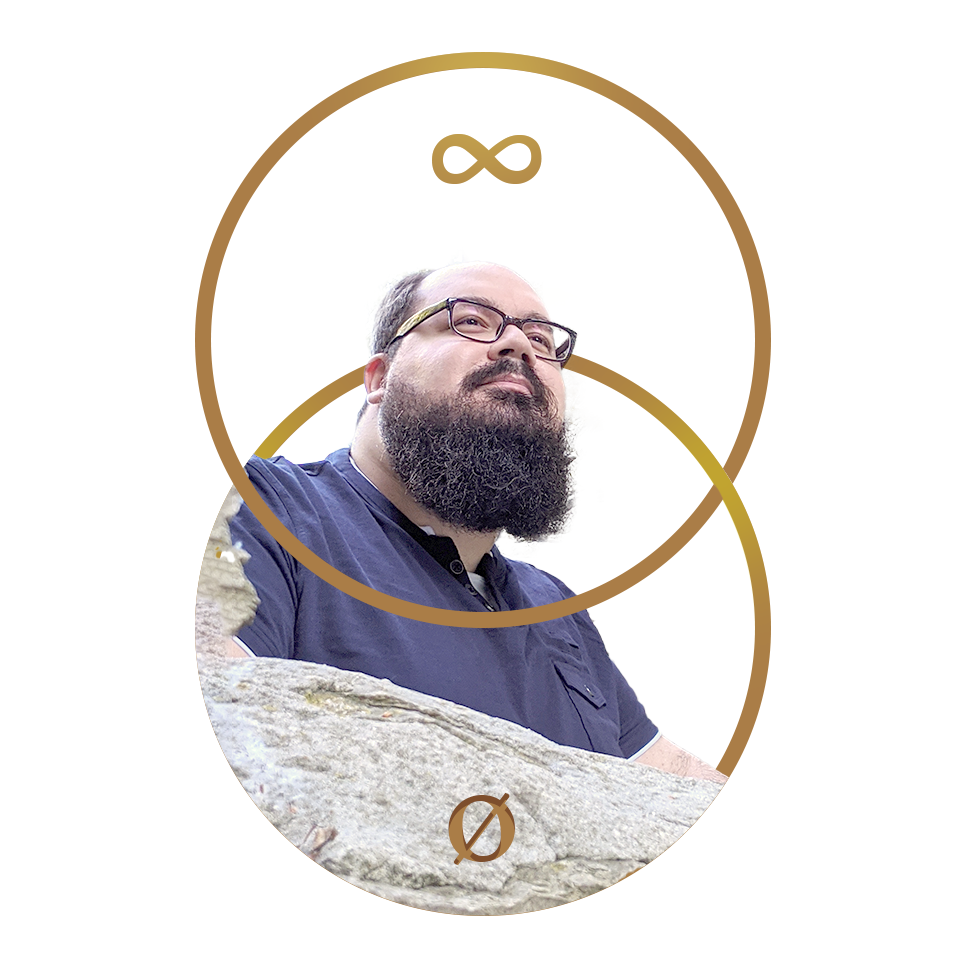
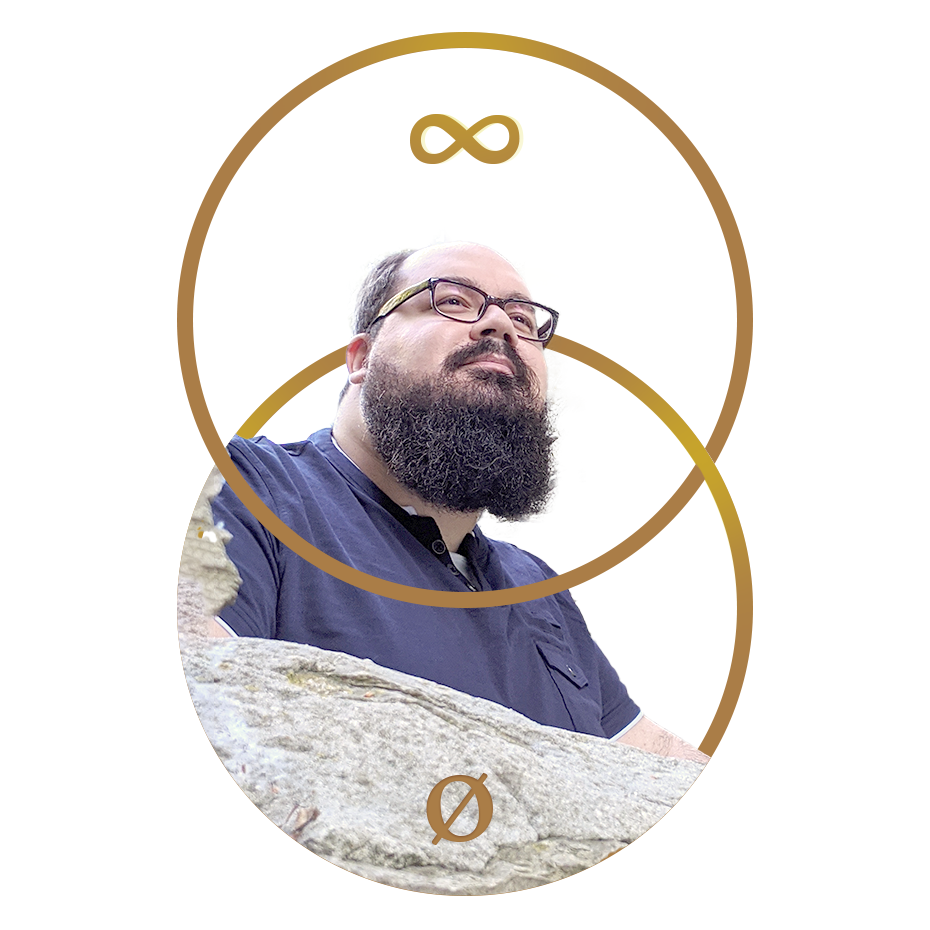
Further adjustments to home heading

diff --git a/src/_includes/styles/main.min.css b/src/_includes/styles/main.min.css
@@ -1,2 +1,2 @@
 :root{--font-serif: "JuniusX Var", Georgia, Athelas, Times, "Times New Roman", serif;--font-sans: "Inter Var", -apple-system, BlinkMacSystemFont, "Helvetica Neue", Helvetica, Arial,
-    sans-serif;--color-black: #13111e;--color-gray-dark: #2a2834;--color-gray: #888;--color-gray-light: #b9b3a7;--color-gray-verylight: #f2f2f2;--color-white: #fff;--color-purple: #444153;--color-red: #a33b20;--color-red-dark: #7b2814;--color-gold: #aa7d47;--color-gold-light: #f0ece2;--color-lemon: hsl(57, 77%, 45%);--color-lemon-light: hsl(57, 77%, 90%);--color-ginger: hsl(33, 76%, 45%);--color-ginger-light: hsl(33, 76%, 90%);--color-rhubarb: hsl(4, 75%, 45%);--color-rhubarb-light: hsl(4, 75%, 90%);--color-strawberry: hsl(344, 75%, 45%);--color-strawberry-light: hsl(344, 75%, 90%);--color-raspberry: hsl(303, 47%, 45%);--color-raspberry-light: hsl(303, 47%, 90%);--color-lime: hsl(152, 53%, 45%);--color-lime-light: hsl(152, 53%, 90%);--color-sky: hsl(205, 53%, 45%);--color-sky-light: hsl(205, 53%, 90%);--color-bg: var(--color-white);--color-fg: var(--color-gray-dark);--color-fg-display: var(--color-black);--color-link: var(--color-gray-dark);--color-link-hover: var(--color-black);--color-border: rgba(136, 136, 136, .5);--color-accent: var(--color-gold);--color-accent-light: var(--color-gold-light);--color-complementary: var(--color-purple)}.site-header,.site-footer,.entry-body,.postnav,.subscribe,.heading,.gridlist{padding-left:calc( (1.71 * 1rem) + .43844 * calc( (100vw - (20 * 1rem)) / 70));padding-right:calc( (1.71 * 1rem) + .43844 * calc( (100vw - (20 * 1rem)) / 70))}.site-header:not(:last-child)>div,.site-footer:not(:last-child)>div,.entry-body:not(:last-child)>div,.postnav:not(:last-child)>div,.subscribe:not(:last-child)>div,.heading:not(:last-child)>div,.gridlist:not(:last-child)>div{border-bottom:1px solid var(--color-border)}@media screen and (min-width: 65rem){.site-header,.site-footer,.entry-body,.postnav,.subscribe,.heading,.gridlist{padding-left:calc( (2.4624 * 1rem) + .89453 * calc( (100vw - (20 * 1rem)) / 70));padding-right:calc( (2.4624 * 1rem) + .89453 * calc( (100vw - (20 * 1rem)) / 70))}}.site-header__inner,.site-footer__inner,.entry-content,.postnav__inner,.subscribe__inner,.heading__content,.gridlist__inner{margin:0 auto;width:100%;max-width:1440px;padding-top:calc( (1.71 * 1rem) + .43844 * calc( (100vw - (20 * 1rem)) / 70));padding-bottom:calc( (1.71 * 1rem) + .43844 * calc( (100vw - (20 * 1rem)) / 70))}.site-header__inner,.site-footer__inner,.postnav__inner,.subscribe__inner,.gridlist__inner,.services__list{display:grid;grid-template-columns:1fr;grid-gap:calc( (2.4624 * 1rem) + .89453 * calc( (100vw - (20 * 1rem)) / 70))}@media screen and (min-width: 65rem){.site-header__inner,.site-footer__inner,.postnav__inner,.subscribe__inner,.gridlist__inner,.services__list{grid-template-columns:1fr 2fr}}h2,h3,.menu__item a,.langswitch__item a,.postlist__date,.postnav__title,.postnav__heading,a.tag,.contact__item,.subscribe__title,.subscribe__link,.heading__datetime,.gridlist__title,.gridlist__link{font-size:calc( (.82465 * 1rem) + .09201 * calc( (100vw - (20 * 1rem)) / 70));line-height:calc( (1.71 * 1rem) + .43844 * calc( (100vw - (20 * 1rem)) / 70));text-transform:uppercase;letter-spacing:0.1em}.contact__item a,.subscribe__link,.gridlist__link{text-decoration:none;line-height:2;border-bottom:0.15em solid var(--color-link)}.contact__item a:focus,.subscribe__link:focus,.gridlist__link:focus,.contact__item a:hover,.subscribe__link:hover,.gridlist__link:hover,.contact__item a:active,.subscribe__link:active,.gridlist__link:active{border-bottom-color:var(--color-link-hover)}.entry-content a,.heading a{font-weight:700;text-decoration:none;background-image:linear-gradient(90deg, var(--color-bg), var(--color-bg)),linear-gradient(90deg, var(--color-accent), var(--color-accent));background-repeat:no-repeat;background-size:50px 3px, 100% 3px;background-position:-50px 100%, 0 100%}.entry-content a:focus,.heading a:focus,.entry-content a:hover,.heading a:hover,.entry-content a:active,.heading a:active{background-image:linear-gradient(90deg, var(--color-bg), var(--color-bg)),linear-gradient(90deg, var(--color-complementary), var(--color-complementary));background-position:calc(100% + 50px) 100%,0 100%}.site-header__title{border:0;clip:rect(0 0 0 0);height:1px;margin:-1px;overflow:hidden;padding:0;position:absolute;width:1px}@font-face{font-family:'Inter Var';font-style:oblique 0deg 10deg;font-weight:100 900;font-display:swap;src:url("/assets/fonts/Inter.latin.var.woff2") format("woff2");unicode-range:U+0000-007F,U+00A0-0100,U+0131,U+0152-0154,U+02BB-02BD,U+02C6,U+02DA,U+02DC,U+2000-200C,U+2010-2028,U+202F-2060,U+2074,U+20AC,U+2122,U+2191,U+2193,U+2212,U+FEFF}html,body{padding:0;margin:0;overflow-x:hidden}html{--color-bg: var(--color-white);font-family:var(--font-sans);font-size:1rem;background-color:var(--color-bg);box-sizing:border-box}body{position:relative;font-size:calc( (1.1875 * 1rem) + .1875 * calc( (100vw - (20 * 1rem)) / 70));line-height:calc( (1.71 * 1rem) + .43844 * calc( (100vw - (20 * 1rem)) / 70));border-top:0.5rem solid var(--color-accent)}@media screen and (min-width: calc(1440 / 16 * 1rem)){body{font-size:22px}}.site-header,.site-footer,.site-main,.site-main>div{color:var(--color-fg);background-color:var(--color-bg)}*,*:before,*:after{box-sizing:inherit}@media screen and (prefers-reduced-motion: reduce), (update: slow){*,*:before,*:after{animation-duration:0.001ms !important;animation-delay:0s !important;animation-iteration-count:1 !important;transition-duration:0.001ms !important}}h1,h2,h3,h4,h5,h6{color:var(--color-fg-display)}p,ol,ul,figure{margin-top:0;margin-bottom:calc( (1.71 * 1rem) + .43844 * calc( (100vw - (20 * 1rem)) / 70))}p:last-child,ol:last-child,ul:last-child,figure:last-child{margin-bottom:0}figure{margin-left:0;margin-right:0}img{width:100%;height:auto;vertical-align:middle}a{color:var(--color-link);transition:color 0.25s ease-out, border-color 0.25s ease-out, box-shadow 0.25s ease-out, background-position 0.5s ease-in-out, background-image 0.25s ease-in-out}a:focus,a:hover,a:active{color:var(--color-link-hover)}table{margin:calc( (1.1875 * 1rem) + .1875 * calc( (100vw - (20 * 1rem)) / 70)) 0}table td,table th{padding-right:calc( (1.1875 * 1rem) + .1875 * calc( (100vw - (20 * 1rem)) / 70))}@keyframes rotating{0%{transform:rotate(0deg)}to{transform:rotate(360deg)}}@keyframes drawingin{to{stroke-dashoffset:0}}@keyframes drawingover{from{stroke-dashoffset:1715}25%,50%{stroke-dashoffset:0}to{stroke-dashoffset:-1715}}@keyframes stretchingin{from{stroke-dashoffset:-110}to{stroke-dashoffset:0}}@keyframes stretchingover{from{stroke-dashoffset:0}25%{stroke-dashoffset:120}50%{stroke-dashoffset:-110}75%{stroke-dashoffset:120}to{stroke-dashoffset:0}}@keyframes headingPicture{0%{opacity:0}50%{opacity:0}51%{opacity:1}100%{opacity:1;transform:translate(-50%, -50%) scale(1)}}@keyframes headingOverlay{0%{transform:scaleX(0);transform-origin:0% 50%}50%{transform:scaleX(1);transform-origin:0% 50%}51%{transform:scaleX(1);transform-origin:100% 50%}100%{transform:scaleX(0);transform-origin:100% 50%}}.overlay{margin-top:calc(calc( (2.95488 * 1rem) + 1.24129 * calc( (100vw - (20 * 1rem)) / 70)) * -1)}.borderless{border:none}.link-home{font-size:calc( (1.1875 * 1rem) + .1875 * calc( (100vw - (20 * 1rem)) / 70));line-height:calc( (1.71 * 1rem) + .43844 * calc( (100vw - (20 * 1rem)) / 70));margin-top:0;margin-bottom:0}.link-home a{display:block}.link-home a:not(:hover){text-decoration:none}.direct-link{margin-left:.25rem}.direct-link:link{color:var(--color-accent)}.direct-link:hover,.direct-link:active{color:var(--color-red)}.site-header{background-color:var(--color-gray-verylight)}.site-header__inner{--color-border: transparent}@media screen and (min-width: 65rem){.site-header__inner{padding-top:calc( (3.54586 * 1rem) + 1.69935 * calc( (100vw - (20 * 1rem)) / 70));grid-template-columns:2fr 1fr 2fr}}.site-header__logo{position:relative;justify-self:center;margin-bottom:calc( (3.54586 * 1rem) + 1.69935 * calc( (100vw - (20 * 1rem)) / 70))}@media screen and (min-width: 65rem){.site-header__logo{grid-column:2/3}}.site-header__navigation{--color-link-hover: var(--color-accent);display:flex;justify-content:space-between}@media screen and (min-width: 65rem){.site-header__navigation{display:contents}.site-header__navigation .menu{grid-row:1;grid-column:1/2;display:flex;column-gap:calc( (2.052 * 1rem) + .63355 * calc( (100vw - (20 * 1rem)) / 70))}.site-header__navigation .langswitch{grid-row:1;grid-column:3/5;justify-self:right}}.site-footer{--color-bg: var(--color-black);--color-fg: var(--color-gray-light);--color-link: var(--color-accent-light);--color-link-hover: var(--color-accent);--color-border: var(--color-gray-dark)}.site-footer__inner{border-bottom:none !important}.site-footer__links{display:flex;column-gap:calc( (1.425 * 1rem) + .29375 * calc( (100vw - (20 * 1rem)) / 70))}.site-footer .logo,.site-footer .menu,.site-footer .contact{flex:1}.site-footer .menu__item,.site-footer .contact__item{display:block}.site-footer .menu__item a,.site-footer .contact__item a{display:block}.site-footer .contact__item{font-weight:normal}.site-footer .contact__item a{border-bottom:0;line-height:2.25}.site-footer .contact__item a:after{content:"" !important}.site-footer .copyright{font-weight:700;font-size:calc( (.98958 * 1rem) + .11042 * calc( (100vw - (20 * 1rem)) / 70));text-transform:none;padding-top:calc( (1.71 * 1rem) + .43844 * calc( (100vw - (20 * 1rem)) / 70));border-top:1px solid var(--color-border)}@media screen and (min-width: 65rem){.site-footer .logo{margin-top:0.6rem}.site-footer .copyright{grid-column:2/3}}.menu__list,.langswitch__list{padding:0;margin:0;list-style:none}.menu__item a,.langswitch__item a{line-height:2.25;display:block;text-decoration:none}.menu__item[aria-current] a,.menu__item--active a,.langswitch__item[aria-current] a,.langswitch__item--active a{font-weight:700;color:var(--color-link-hover)}.entry-content{--color-link-hover: var(--color-accent);position:relative;padding-top:calc( (2.95488 * 1rem) + 1.24129 * calc( (100vw - (20 * 1rem)) / 70));padding-bottom:calc( (2.95488 * 1rem) + 1.24129 * calc( (100vw - (20 * 1rem)) / 70))}.entry-content p{max-width:37.5em}.entry-content p:first-of-type:first-letter{float:left;margin-right:0.25rem;font-size:520%;margin-top:0.7rem;line-height:.68em;-webkit-initial-letter:3;initial-letter:3}.entry-content p:last-of-type:after{display:inline-block;content:"";background-color:var(--color-accent);width:0.5em;height:0.5em;margin-left:0.25rem}.entry-content a{--color-link: var(--color-fg);--color-link-hover: var(--color-fg)}.entry-content a.external-link:after{display:inline-block;content:"\2197";font-size:65%;line-height:1}@media screen and (min-width: 65rem){.entry-content>*:not(div){margin-left:calc(33.3% + calc( (1.71 * 1rem) + .43844 * calc( (100vw - (20 * 1rem)) / 70)))}.entry-content pre{margin-left:auto}.entry-content figure.onethird{margin-left:0;width:calc(33.3% - calc( (1.425 * 1rem) + .29375 * calc( (100vw - (20 * 1rem)) / 70)));float:left}}.postlist{list-style:none;padding:0;margin:0}.postlist:not(:last-child){border-bottom:1px solid var(--color-border)}.postlist__item{padding-bottom:calc( (1.71 * 1rem) + .43844 * calc( (100vw - (20 * 1rem)) / 70))}.postlist__item:not(:last-of-type){margin-bottom:calc( (1.71 * 1rem) + .43844 * calc( (100vw - (20 * 1rem)) / 70));border-bottom:1px solid var(--color-border)}.postlist__date{font-size:calc( (.82465 * 1rem) + .09201 * calc( (100vw - (20 * 1rem)) / 70));font-weight:700;color:var(--color-accent);margin-right:.5rem}.postlist__link{display:block;font-size:calc( (1.425 * 1rem) + .29375 * calc( (100vw - (20 * 1rem)) / 70));font-weight:700;margin-bottom:.5rem}.postlist__description{font-size:calc( (1.1875 * 1rem) + .1875 * calc( (100vw - (20 * 1rem)) / 70));margin-bottom:.5rem}.postnav__title{margin-top:0;margin-bottom:0}@media screen and (min-width: 65rem){.postnav__items{display:grid;grid-template-columns:1fr 1fr;grid-column-gap:calc( (2.4624 * 1rem) + .89453 * calc( (100vw - (20 * 1rem)) / 70))}}.postnav__item{display:block}@media screen and (max-width: 65rem){.postnav__item:not(:last-child){margin-bottom:calc( (1.71 * 1rem) + .43844 * calc( (100vw - (20 * 1rem)) / 70))}}.postnav__link:not(:hover){text-decoration:none}.postnav__heading,.postnav__description{margin:0}.postnav__heading{font-weight:700}a.tag{--color-link: var(--color-accent);--color-link-hover: var(--color-white);font-size:.75rem;font-weight:600;line-height:1.35;display:inline-block;position:relative;vertical-align:middle;padding:.0 .4rem 0 1.1rem;margin-right:0.5rem;border:0.125rem solid var(--color-link);border-radius:8px;text-decoration:none}a.tag:before{content:'#';position:absolute;left:.35rem}a.tag:focus,a.tag:hover,a.tag:active{background-color:var(--color-link)}.taglist{grid-column:2/3}.contact{--color-link-hover: var(--color-accent)}.contact__list{padding:0;margin:0;list-style:none}.contact__item{display:inline-block;position:relative;font-weight:700}.contact__item:not(:last-child){margin-right:calc( (1.71 * 1rem) + .43844 * calc( (100vw - (20 * 1rem)) / 70))}.contact__item a:after{content:"\20\2197";position:relative;right:-.25rem}code,pre{font-family:"Cascadia Mono", Consolas, Menlo, Monaco, "Andale Mono WT", "Andale Mono", "Lucida Console", "Lucida Sans Typewriter", "DejaVu Sans Mono", "Bitstream Vera Sans Mono", "Liberation Mono", "Nimbus Mono L", "Courier New", Courier, monospace;font-size:calc( (.98958 * 1rem) + .11042 * calc( (100vw - (20 * 1rem)) / 70));line-height:calc( (1.425 * 1rem) + .29375 * calc( (100vw - (20 * 1rem)) / 70));direction:ltr;text-align:left;white-space:pre;word-spacing:normal;word-break:normal;-moz-tab-size:2;-o-tab-size:2;tab-size:2;-webkit-hyphens:none;-moz-hyphens:none;-ms-hyphens:none;hyphens:none;background:var(--color-black);color:var(--color-white);border-radius:0.3em}pre{padding:calc( (1.1875 * 1rem) + .1875 * calc( (100vw - (20 * 1rem)) / 70));margin:0 0 calc( (1.1875 * 1rem) + .1875 * calc( (100vw - (20 * 1rem)) / 70));overflow:auto}pre[class*="language-"]::before{position:absolute;margin-top:calc(calc( (1.1875 * 1rem) + .1875 * calc( (100vw - (20 * 1rem)) / 70)) * -1);right:0;padding:.25rem .5rem;font-size:calc( (.82465 * 1rem) + .09201 * calc( (100vw - (20 * 1rem)) / 70));font-family:var(--font-sans);color:var(--color-white);background-color:var(--color-purple);border-radius:0 .3em 0 0.3em}pre.language-svg::before{content:'SVG'}pre.language-css::before{content:'CSS'}pre.language-js::before{content:'JS'}:not(pre)>code{padding:0em .25em 0.1em;color:var(--color-white);background-color:var(--color-accent)}.token.comment,.token.prolog,.token.doctype,.token.cdata{color:var(--color-gray);font-style:italic}.token.punctuation{color:#f8f8f2}.token.namespace{opacity:0.7}.token.operator,.token.boolean,.token.number{color:#fd971f}.token.property{color:#f4bf75}.token.tag{color:#66d9ef}.token.string{color:#a1efe4}.token.selector{color:#ad94e3}.token.attr-name{color:#fd971f}.token.entity,.token.url,.language-css .token.string,.style .token.string{color:#a1efe4}.token.attr-value,.token.keyword,.token.control,.token.directive,.token.unit{color:#a6e22e}.token.statement,.token.regex,.token.atrule{color:#a1efe4}.token.placeholder,.token.variable{color:#66d9ef}.token.deleted{text-decoration:line-through}.token.inserted{border-bottom:1px dotted #f9f8f5;text-decoration:none}.token.italic{font-style:italic}.token.important,.token.bold{font-weight:bold}.token.important{color:#f92672}.token.entity{cursor:help}pre>code.highlight{outline:0.4em solid #f92672;outline-offset:0.4em}.highlight-line{display:block;padding:0.125em 1em;text-decoration:none;color:inherit}.highlight-line:empty:before{content:" "}.highlight-line+br{display:none}.highlight-line-isdir{color:#b0b0b0;background-color:#222}.highlight-line-active{background-color:#444;background-color:rgba(69,69,69,0.8)}.highlight-line-add{background-color:#45844b}.highlight-line-remove{background-color:#902f2f}.subscribe__title{margin-top:0;margin-bottom:0}.subscribe__link{font-weight:700;position:relative}.subscribe__link:after{content:"\20\2197";position:relative;right:-0.25rem}.logo a{display:inline-block;vertical-align:middle}.logo a .logo__monogram{display:block;width:3rem;height:auto}.logo a .logo__monogram .logo__trace path,.logo a .logo__monogram .logo__hover path{stroke-dasharray:1715;stroke-dashoffset:1715;transform:translateZ(0)}.logo a .logo__monogram .logo__trace path{stroke:var(--color-link);animation:drawingin 2.5s cubic-bezier(0.83, 0, 0.17, 1) forwards}.logo a .logo__monogram .logo__trace path+path{animation-delay:2s}.logo a .logo__monogram .logo__hover path{stroke:var(--color-accent)}.logo a .logo__rays{position:absolute;width:9rem;height:9rem;top:-3.35rem;left:-3rem;pointer-events:none;transform-origin:center;animation:stretchingin 4.5s cubic-bezier(0.83, 0, 0.17, 1) forwards}.logo a .logo__rays path{stroke:var(--color-accent);stroke-dasharray:110;transform:translateZ(0)}.logo a:focus .logo__trace,.logo a:hover .logo__trace,.logo a:active .logo__trace{opacity:0}.logo a:focus .logo__hover path,.logo a:hover .logo__hover path,.logo a:active .logo__hover path{animation:drawingover 5s cubic-bezier(0.83, 0, 0.17, 1) forwards infinite}.logo a:focus .logo__hover path+path,.logo a:hover .logo__hover path+path,.logo a:active .logo__hover path+path{animation-delay:.75s;animation-timing-function:linear}.heading{background-color:var(--color-gray-verylight) !important}.heading__content{position:relative;border-bottom:transparent !important}.heading--post .heading__content{grid-row-gap:1rem}.heading__title,.heading__subtitle{position:relative;margin-top:0;margin-bottom:0}.heading__title{font-weight:300;font-size:calc( (3.54586 * 1rem) + 1.69935 * calc( (100vw - (20 * 1rem)) / 70));line-height:calc( (3.54586 * 1rem) + 1.69935 * calc( (100vw - (20 * 1rem)) / 70));letter-spacing:-0.25rem;color:var(--color-accent)}.heading__subtitle{max-width:37.5em;font-size:calc( (1.71 * 1rem) + .43844 * calc( (100vw - (20 * 1rem)) / 70));line-height:calc( (2.052 * 1rem) + .63355 * calc( (100vw - (20 * 1rem)) / 70));letter-spacing:-0.03rem}.heading__img{position:relative;padding-bottom:56.2%;overflow:hidden}.heading__img img{max-width:100%;height:auto;position:absolute;top:50%;left:50%;transform:translate(-50%, -50%)}@media screen and (min-width: 65rem){.heading{display:grid;min-height:60vh;align-content:center}.heading--post .heading__content{grid-row-gap:calc( (1.425 * 1rem) + .29375 * calc( (100vw - (20 * 1rem)) / 70))}.heading__content{padding-bottom:calc( (3.54586 * 1rem) + 1.69935 * calc( (100vw - (20 * 1rem)) / 70))}.heading__title--page{grid-column:1/3;max-width:75%;margin-top:calc(calc( (3.54586 * 1rem) + 1.69935 * calc( (100vw - (20 * 1rem)) / 70)) * -1);z-index:30}}.gridlist{--color-link-hover: var(--color-accent)}.gridlist__title{margin-top:0;margin-bottom:0}.gridlist__link{position:relative;font-weight:700}.gridlist__link:focus,.gridlist__link:hover,.gridlist__link:active{color:var(--color-link-hover)}.gridlist__link:after{content:"\20\2192";position:relative;right:-0.25rem}@media screen and (min-width: 65rem){.gridlist .postlist{grid-column:2/3}.gridlist__footer{grid-column:2/3}}.feed .gridlist__inner{padding-top:calc(calc( (1.71 * 1rem) + .43844 * calc( (100vw - (20 * 1rem)) / 70)) * 2)}.services__list h2{margin-top:0;margin-bottom:0}.services__list:first-of-type{padding-top:calc( (1.71 * 1rem) + .43844 * calc( (100vw - (20 * 1rem)) / 70));border-top:1px solid var(--color-border)}.services__list:not(:last-child){margin-bottom:calc( (1.71 * 1rem) + .43844 * calc( (100vw - (20 * 1rem)) / 70));padding-bottom:calc( (1.71 * 1rem) + .43844 * calc( (100vw - (20 * 1rem)) / 70));border-bottom:1px solid var(--color-border)}.services__list ul{list-style:none;padding-left:0;columns:2}
+    sans-serif;--color-black: #13111e;--color-gray-dark: #2a2834;--color-gray: #888;--color-gray-light: #b9b3a7;--color-gray-verylight: #f2f2f2;--color-white: #fff;--color-purple: #444153;--color-red: #a33b20;--color-red-dark: #7b2814;--color-gold: #aa7d47;--color-gold-light: #f0ece2;--color-lemon: hsl(57, 77%, 45%);--color-lemon-light: hsl(57, 77%, 90%);--color-ginger: hsl(33, 76%, 45%);--color-ginger-light: hsl(33, 76%, 90%);--color-rhubarb: hsl(4, 75%, 45%);--color-rhubarb-light: hsl(4, 75%, 90%);--color-strawberry: hsl(344, 75%, 45%);--color-strawberry-light: hsl(344, 75%, 90%);--color-raspberry: hsl(303, 47%, 45%);--color-raspberry-light: hsl(303, 47%, 90%);--color-lime: hsl(152, 53%, 45%);--color-lime-light: hsl(152, 53%, 90%);--color-sky: hsl(205, 53%, 45%);--color-sky-light: hsl(205, 53%, 90%);--color-bg: var(--color-white);--color-fg: var(--color-gray-dark);--color-fg-display: var(--color-black);--color-link: var(--color-gray-dark);--color-link-hover: var(--color-black);--color-border: rgba(136, 136, 136, .5);--color-accent: var(--color-gold);--color-accent-light: var(--color-gold-light);--color-complementary: var(--color-purple)}.site-header,.site-footer,.entry-body,.postnav,.subscribe,.heading,.gridlist{padding-left:calc( (1.71 * 1rem) + .43844 * calc( (100vw - (20 * 1rem)) / 70));padding-right:calc( (1.71 * 1rem) + .43844 * calc( (100vw - (20 * 1rem)) / 70))}.site-header:not(:last-child)>div,.site-footer:not(:last-child)>div,.entry-body:not(:last-child)>div,.postnav:not(:last-child)>div,.subscribe:not(:last-child)>div,.heading:not(:last-child)>div,.gridlist:not(:last-child)>div{border-bottom:1px solid var(--color-border)}@media screen and (min-width: 65rem){.site-header,.site-footer,.entry-body,.postnav,.subscribe,.heading,.gridlist{padding-left:calc( (2.4624 * 1rem) + .89453 * calc( (100vw - (20 * 1rem)) / 70));padding-right:calc( (2.4624 * 1rem) + .89453 * calc( (100vw - (20 * 1rem)) / 70))}}.site-header__inner,.site-footer__inner,.entry-content,.postnav__inner,.subscribe__inner,.heading__content,.gridlist__inner{margin:0 auto;width:100%;max-width:1440px;padding-top:calc( (1.71 * 1rem) + .43844 * calc( (100vw - (20 * 1rem)) / 70));padding-bottom:calc( (1.71 * 1rem) + .43844 * calc( (100vw - (20 * 1rem)) / 70))}.site-header__inner,.site-footer__inner,.postnav__inner,.subscribe__inner,.gridlist__inner,.services__list{display:grid;grid-template-columns:1fr;grid-gap:calc( (2.4624 * 1rem) + .89453 * calc( (100vw - (20 * 1rem)) / 70))}@media screen and (min-width: 65rem){.site-header__inner,.site-footer__inner,.postnav__inner,.subscribe__inner,.gridlist__inner,.services__list{grid-template-columns:1fr 2fr}}h2,h3,.menu__item a,.langswitch__item a,.postlist__date,.postnav__title,.postnav__heading,a.tag,.contact__item,.subscribe__title,.subscribe__link,.heading__datetime,.gridlist__title,.gridlist__link{font-size:calc( (.82465 * 1rem) + .09201 * calc( (100vw - (20 * 1rem)) / 70));line-height:calc( (1.71 * 1rem) + .43844 * calc( (100vw - (20 * 1rem)) / 70));text-transform:uppercase;letter-spacing:0.1em}.contact__item a,.subscribe__link,.gridlist__link{text-decoration:none;line-height:2;border-bottom:0.15em solid var(--color-link)}.contact__item a:focus,.subscribe__link:focus,.gridlist__link:focus,.contact__item a:hover,.subscribe__link:hover,.gridlist__link:hover,.contact__item a:active,.subscribe__link:active,.gridlist__link:active{border-bottom-color:var(--color-link-hover)}.entry-content a,.heading a{font-weight:700;text-decoration:none;background-image:linear-gradient(90deg, var(--color-bg), var(--color-bg)),linear-gradient(90deg, var(--color-accent), var(--color-accent));background-repeat:no-repeat;background-size:50px 3px, 100% 3px;background-position:-50px 100%, 0 100%}.entry-content a:focus,.heading a:focus,.entry-content a:hover,.heading a:hover,.entry-content a:active,.heading a:active{background-image:linear-gradient(90deg, var(--color-bg), var(--color-bg)),linear-gradient(90deg, var(--color-complementary), var(--color-complementary));background-position:calc(100% + 50px) 100%,0 100%}.site-header__title{border:0;clip:rect(0 0 0 0);height:1px;margin:-1px;overflow:hidden;padding:0;position:absolute;width:1px}@font-face{font-family:'Inter Var';font-style:oblique 0deg 10deg;font-weight:100 900;font-display:swap;src:url("/assets/fonts/Inter.latin.var.woff2") format("woff2");unicode-range:U+0000-007F,U+00A0-0100,U+0131,U+0152-0154,U+02BB-02BD,U+02C6,U+02DA,U+02DC,U+2000-200C,U+2010-2028,U+202F-2060,U+2074,U+20AC,U+2122,U+2191,U+2193,U+2212,U+FEFF}html,body{padding:0;margin:0;overflow-x:hidden}html{--color-bg: var(--color-white);font-family:var(--font-sans);font-size:1rem;background-color:var(--color-bg);box-sizing:border-box}body{position:relative;font-size:calc( (1.1875 * 1rem) + .1875 * calc( (100vw - (20 * 1rem)) / 70));line-height:calc( (1.71 * 1rem) + .43844 * calc( (100vw - (20 * 1rem)) / 70));border-top:0.5rem solid var(--color-accent)}@media screen and (min-width: calc(1440 / 16 * 1rem)){body{font-size:22px}}.site-header,.site-footer,.site-main,.site-main>div{color:var(--color-fg);background-color:var(--color-bg)}*,*:before,*:after{box-sizing:inherit}@media screen and (prefers-reduced-motion: reduce), (update: slow){*,*:before,*:after{animation-duration:0.001ms !important;animation-delay:0s !important;animation-iteration-count:1 !important;transition-duration:0.001ms !important}}h1,h2,h3,h4,h5,h6{color:var(--color-fg-display)}p,ol,ul,figure{margin-top:0;margin-bottom:calc( (1.71 * 1rem) + .43844 * calc( (100vw - (20 * 1rem)) / 70))}p:last-child,ol:last-child,ul:last-child,figure:last-child{margin-bottom:0}figure{margin-left:0;margin-right:0}img{width:100%;height:auto;vertical-align:middle}a{color:var(--color-link);transition:color 0.25s ease-out, border-color 0.25s ease-out, box-shadow 0.25s ease-out, background-position 0.5s ease-in-out, background-image 0.25s ease-in-out}a:focus,a:hover,a:active{color:var(--color-link-hover)}table{margin:calc( (1.1875 * 1rem) + .1875 * calc( (100vw - (20 * 1rem)) / 70)) 0}table td,table th{padding-right:calc( (1.1875 * 1rem) + .1875 * calc( (100vw - (20 * 1rem)) / 70))}@keyframes rotating{0%{transform:rotate(0deg)}to{transform:rotate(360deg)}}@keyframes drawingin{to{stroke-dashoffset:0}}@keyframes drawingover{from{stroke-dashoffset:1715}25%,50%{stroke-dashoffset:0}to{stroke-dashoffset:-1715}}@keyframes stretchingin{from{stroke-dashoffset:-110}to{stroke-dashoffset:0}}@keyframes stretchingover{from{stroke-dashoffset:0}25%{stroke-dashoffset:120}50%{stroke-dashoffset:-110}75%{stroke-dashoffset:120}to{stroke-dashoffset:0}}@keyframes headingPicture{0%{opacity:0}50%{opacity:0}51%{opacity:1}100%{opacity:1;transform:translate(-50%, -50%) scale(1)}}@keyframes headingOverlay{0%{transform:scaleX(0);transform-origin:0% 50%}50%{transform:scaleX(1);transform-origin:0% 50%}51%{transform:scaleX(1);transform-origin:100% 50%}100%{transform:scaleX(0);transform-origin:100% 50%}}.overlay{margin-top:calc(calc( (2.95488 * 1rem) + 1.24129 * calc( (100vw - (20 * 1rem)) / 70)) * -1)}.borderless{border:none}.link-home{font-size:calc( (1.1875 * 1rem) + .1875 * calc( (100vw - (20 * 1rem)) / 70));line-height:calc( (1.71 * 1rem) + .43844 * calc( (100vw - (20 * 1rem)) / 70));margin-top:0;margin-bottom:0}.link-home a{display:block}.link-home a:not(:hover){text-decoration:none}.direct-link{margin-left:.25rem}.direct-link:link{color:var(--color-accent)}.direct-link:hover,.direct-link:active{color:var(--color-red)}.site-header{background-color:var(--color-gray-verylight)}.site-header__inner{--color-border: transparent}@media screen and (min-width: 65rem){.site-header__inner{padding-top:calc( (3.54586 * 1rem) + 1.69935 * calc( (100vw - (20 * 1rem)) / 70));grid-template-columns:2fr 1fr 2fr}}.site-header__logo{position:relative;justify-self:center;margin-bottom:calc( (3.54586 * 1rem) + 1.69935 * calc( (100vw - (20 * 1rem)) / 70))}@media screen and (min-width: 65rem){.site-header__logo{grid-column:2/3}}.site-header__navigation{--color-link-hover: var(--color-accent);display:flex;justify-content:space-between}@media screen and (min-width: 65rem){.site-header__navigation{display:contents}.site-header__navigation .menu{grid-row:1;grid-column:1/2;display:flex;column-gap:calc( (2.052 * 1rem) + .63355 * calc( (100vw - (20 * 1rem)) / 70))}.site-header__navigation .langswitch{grid-row:1;grid-column:3/4;justify-self:right}}.site-footer{--color-bg: var(--color-black);--color-fg: var(--color-gray-light);--color-link: var(--color-accent-light);--color-link-hover: var(--color-accent);--color-border: var(--color-gray-dark)}.site-footer__inner{border-bottom:none !important}.site-footer__links{display:flex;column-gap:calc( (1.425 * 1rem) + .29375 * calc( (100vw - (20 * 1rem)) / 70))}.site-footer .logo,.site-footer .menu,.site-footer .contact{flex:1}.site-footer .menu__item,.site-footer .contact__item{display:block}.site-footer .menu__item a,.site-footer .contact__item a{display:block}.site-footer .contact__item{font-weight:normal}.site-footer .contact__item a{border-bottom:0;line-height:2.25}.site-footer .contact__item a:after{content:"" !important}.site-footer .copyright{font-weight:700;font-size:calc( (.98958 * 1rem) + .11042 * calc( (100vw - (20 * 1rem)) / 70));text-transform:none;padding-top:calc( (1.71 * 1rem) + .43844 * calc( (100vw - (20 * 1rem)) / 70));border-top:1px solid var(--color-border)}@media screen and (min-width: 65rem){.site-footer .logo{margin-top:0.6rem}.site-footer .copyright{grid-column:2/3}}.menu__list,.langswitch__list{padding:0;margin:0;list-style:none}.menu__item a,.langswitch__item a{line-height:2.25;display:block;text-decoration:none}.menu__item[aria-current] a,.menu__item--active a,.langswitch__item[aria-current] a,.langswitch__item--active a{font-weight:700;color:var(--color-link-hover)}.entry-content{--color-link-hover: var(--color-accent);position:relative;padding-top:calc( (2.95488 * 1rem) + 1.24129 * calc( (100vw - (20 * 1rem)) / 70));padding-bottom:calc( (2.95488 * 1rem) + 1.24129 * calc( (100vw - (20 * 1rem)) / 70))}.entry-content p{max-width:37.5em}.entry-content p:first-of-type:first-letter{float:left;margin-right:0.25rem;font-size:520%;margin-top:0.7rem;line-height:.68em;-webkit-initial-letter:3;initial-letter:3}.entry-content p:last-of-type:after{display:inline-block;content:"";background-color:var(--color-accent);width:0.5em;height:0.5em;margin-left:0.25rem}.entry-content a{--color-link: var(--color-fg);--color-link-hover: var(--color-fg)}.entry-content a.external-link:after{display:inline-block;content:"\2197";font-size:65%;line-height:1}@media screen and (min-width: 65rem){.entry-content>*:not(div){margin-left:calc(33.3% + calc( (1.71 * 1rem) + .43844 * calc( (100vw - (20 * 1rem)) / 70)))}.entry-content pre{margin-left:auto}.entry-content figure.onethird{margin-left:0;width:calc(33.3% - calc( (1.425 * 1rem) + .29375 * calc( (100vw - (20 * 1rem)) / 70)));float:left}}.postlist{list-style:none;padding:0;margin:0}.postlist:not(:last-child){border-bottom:1px solid var(--color-border)}.postlist__item{padding-bottom:calc( (1.71 * 1rem) + .43844 * calc( (100vw - (20 * 1rem)) / 70))}.postlist__item:not(:last-of-type){margin-bottom:calc( (1.71 * 1rem) + .43844 * calc( (100vw - (20 * 1rem)) / 70));border-bottom:1px solid var(--color-border)}.postlist__date{font-size:calc( (.82465 * 1rem) + .09201 * calc( (100vw - (20 * 1rem)) / 70));font-weight:700;color:var(--color-accent);margin-right:.5rem}.postlist__link{display:block;font-size:calc( (1.425 * 1rem) + .29375 * calc( (100vw - (20 * 1rem)) / 70));font-weight:700;margin-bottom:.5rem}.postlist__description{font-size:calc( (1.1875 * 1rem) + .1875 * calc( (100vw - (20 * 1rem)) / 70));margin-bottom:.5rem}.postnav__title{margin-top:0;margin-bottom:0}@media screen and (min-width: 65rem){.postnav__items{display:grid;grid-template-columns:1fr 1fr;grid-column-gap:calc( (2.4624 * 1rem) + .89453 * calc( (100vw - (20 * 1rem)) / 70))}}.postnav__item{display:block}@media screen and (max-width: 65rem){.postnav__item:not(:last-child){margin-bottom:calc( (1.71 * 1rem) + .43844 * calc( (100vw - (20 * 1rem)) / 70))}}.postnav__link:not(:hover){text-decoration:none}.postnav__heading,.postnav__description{margin:0}.postnav__heading{font-weight:700}a.tag{--color-link: var(--color-accent);--color-link-hover: var(--color-white);font-size:.75rem;font-weight:600;line-height:1.35;display:inline-block;position:relative;vertical-align:middle;padding:.0 .4rem 0 1.1rem;margin-right:0.5rem;border:0.125rem solid var(--color-link);border-radius:8px;text-decoration:none}a.tag:before{content:'#';position:absolute;left:.35rem}a.tag:focus,a.tag:hover,a.tag:active{background-color:var(--color-link)}.taglist{grid-column:2/3}.contact{--color-link-hover: var(--color-accent)}.contact__list{padding:0;margin:0;list-style:none}.contact__item{display:inline-block;position:relative;font-weight:700}.contact__item:not(:last-child){margin-right:calc( (1.71 * 1rem) + .43844 * calc( (100vw - (20 * 1rem)) / 70))}.contact__item a:after{content:"\20\2197";position:relative;right:-.25rem}code,pre{font-family:"Cascadia Mono", Consolas, Menlo, Monaco, "Andale Mono WT", "Andale Mono", "Lucida Console", "Lucida Sans Typewriter", "DejaVu Sans Mono", "Bitstream Vera Sans Mono", "Liberation Mono", "Nimbus Mono L", "Courier New", Courier, monospace;font-size:calc( (.98958 * 1rem) + .11042 * calc( (100vw - (20 * 1rem)) / 70));line-height:calc( (1.425 * 1rem) + .29375 * calc( (100vw - (20 * 1rem)) / 70));direction:ltr;text-align:left;white-space:pre;word-spacing:normal;word-break:normal;-moz-tab-size:2;-o-tab-size:2;tab-size:2;-webkit-hyphens:none;-moz-hyphens:none;-ms-hyphens:none;hyphens:none;background:var(--color-black);color:var(--color-white);border-radius:0.3em}pre{padding:calc( (1.1875 * 1rem) + .1875 * calc( (100vw - (20 * 1rem)) / 70));margin:0 0 calc( (1.1875 * 1rem) + .1875 * calc( (100vw - (20 * 1rem)) / 70));overflow:auto}pre[class*="language-"]::before{position:absolute;margin-top:calc(calc( (1.1875 * 1rem) + .1875 * calc( (100vw - (20 * 1rem)) / 70)) * -1);right:0;padding:.25rem .5rem;font-size:calc( (.82465 * 1rem) + .09201 * calc( (100vw - (20 * 1rem)) / 70));font-family:var(--font-sans);color:var(--color-white);background-color:var(--color-purple);border-radius:0 .3em 0 0.3em}pre.language-svg::before{content:'SVG'}pre.language-css::before{content:'CSS'}pre.language-js::before{content:'JS'}:not(pre)>code{padding:0em .25em 0.1em;color:var(--color-white);background-color:var(--color-accent)}.token.comment,.token.prolog,.token.doctype,.token.cdata{color:var(--color-gray);font-style:italic}.token.punctuation{color:#f8f8f2}.token.namespace{opacity:0.7}.token.operator,.token.boolean,.token.number{color:#fd971f}.token.property{color:#f4bf75}.token.tag{color:#66d9ef}.token.string{color:#a1efe4}.token.selector{color:#ad94e3}.token.attr-name{color:#fd971f}.token.entity,.token.url,.language-css .token.string,.style .token.string{color:#a1efe4}.token.attr-value,.token.keyword,.token.control,.token.directive,.token.unit{color:#a6e22e}.token.statement,.token.regex,.token.atrule{color:#a1efe4}.token.placeholder,.token.variable{color:#66d9ef}.token.deleted{text-decoration:line-through}.token.inserted{border-bottom:1px dotted #f9f8f5;text-decoration:none}.token.italic{font-style:italic}.token.important,.token.bold{font-weight:bold}.token.important{color:#f92672}.token.entity{cursor:help}pre>code.highlight{outline:0.4em solid #f92672;outline-offset:0.4em}.highlight-line{display:block;padding:0.125em 1em;text-decoration:none;color:inherit}.highlight-line:empty:before{content:" "}.highlight-line+br{display:none}.highlight-line-isdir{color:#b0b0b0;background-color:#222}.highlight-line-active{background-color:#444;background-color:rgba(69,69,69,0.8)}.highlight-line-add{background-color:#45844b}.highlight-line-remove{background-color:#902f2f}.subscribe__title{margin-top:0;margin-bottom:0}.subscribe__link{font-weight:700;position:relative}.subscribe__link:after{content:"\20\2197";position:relative;right:-0.25rem}.logo a{display:inline-block;vertical-align:middle}.logo a .logo__monogram{display:block;width:3rem;height:auto}.logo a .logo__monogram .logo__trace path,.logo a .logo__monogram .logo__hover path{stroke-dasharray:1715;stroke-dashoffset:1715;transform:translateZ(0)}.logo a .logo__monogram .logo__trace path{stroke:var(--color-link);animation:drawingin 2.5s cubic-bezier(0.83, 0, 0.17, 1) forwards}.logo a .logo__monogram .logo__trace path+path{animation-delay:2s}.logo a .logo__monogram .logo__hover path{stroke:var(--color-accent)}.logo a .logo__rays{position:absolute;width:9rem;height:9rem;top:-3.35rem;left:-3rem;pointer-events:none;transform-origin:center;animation:stretchingin 4.5s cubic-bezier(0.83, 0, 0.17, 1) forwards}.logo a .logo__rays path{stroke:var(--color-accent);stroke-dasharray:110;transform:translateZ(0)}.logo a:focus .logo__trace,.logo a:hover .logo__trace,.logo a:active .logo__trace{opacity:0}.logo a:focus .logo__hover path,.logo a:hover .logo__hover path,.logo a:active .logo__hover path{animation:drawingover 5s cubic-bezier(0.83, 0, 0.17, 1) forwards infinite}.logo a:focus .logo__hover path+path,.logo a:hover .logo__hover path+path,.logo a:active .logo__hover path+path{animation-delay:.75s;animation-timing-function:linear}.heading{background-color:var(--color-gray-verylight) !important}.heading__content{position:relative;border-bottom:transparent !important}.heading--post .heading__content{grid-row-gap:1rem}.heading__title,.heading__subtitle{position:relative;margin-top:0}.heading__title{font-weight:300;font-size:calc( (3.54586 * 1rem) + 1.69935 * calc( (100vw - (20 * 1rem)) / 70));line-height:calc( (3.54586 * 1rem) + 1.69935 * calc( (100vw - (20 * 1rem)) / 70));letter-spacing:-0.25rem;color:var(--color-accent)}.heading__subtitle{max-width:37.5em;font-size:calc( (1.71 * 1rem) + .43844 * calc( (100vw - (20 * 1rem)) / 70));line-height:calc( (2.052 * 1rem) + .63355 * calc( (100vw - (20 * 1rem)) / 70));letter-spacing:-0.03rem}.heading__img{text-align:center}.heading__img img{max-width:40rem;margin-top:calc(calc( (3.54586 * 1rem) + 1.69935 * calc( (100vw - (20 * 1rem)) / 70)) * -1)}@media screen and (min-width: 65rem){.heading{display:grid;min-height:60vh;align-content:center}.heading__content{padding-bottom:calc( (3.54586 * 1rem) + 1.69935 * calc( (100vw - (20 * 1rem)) / 70))}.heading__title--page{max-width:75%}}.gridlist{--color-link-hover: var(--color-accent)}.gridlist__title{margin-top:0;margin-bottom:0}.gridlist__link{position:relative;font-weight:700}.gridlist__link:focus,.gridlist__link:hover,.gridlist__link:active{color:var(--color-link-hover)}.gridlist__link:after{content:"\20\2192";position:relative;right:-0.25rem}@media screen and (min-width: 65rem){.gridlist .postlist{grid-column:2/3}.gridlist__footer{grid-column:2/3}}.feed .gridlist__inner{padding-top:calc(calc( (1.71 * 1rem) + .43844 * calc( (100vw - (20 * 1rem)) / 70)) * 2)}.services__list h2{margin-top:0;margin-bottom:0}.services__list:first-of-type{padding-top:calc( (1.71 * 1rem) + .43844 * calc( (100vw - (20 * 1rem)) / 70));border-top:1px solid var(--color-border)}.services__list:not(:last-child){margin-bottom:calc( (1.71 * 1rem) + .43844 * calc( (100vw - (20 * 1rem)) / 70));padding-bottom:calc( (1.71 * 1rem) + .43844 * calc( (100vw - (20 * 1rem)) / 70));border-bottom:1px solid var(--color-border)}.services__list ul{list-style:none;padding-left:0;columns:2}

diff --git a/src/assets/styles/components/_heading.scss b/src/assets/styles/components/_heading.scss
@@ -4,7 +4,6 @@
 
   &__content {
     @extend %content;
-    //display: grid;
     position: relative;
     border-bottom: transparent !important;
   }
@@ -21,7 +20,6 @@
   &__subtitle {
     position: relative;
     margin-top: 0;
-    margin-bottom: 0;
   }
 
   &__title {
@@ -44,17 +42,11 @@
   }
 
   &__img {
-    position: relative;
-    padding-bottom: 56.2%; // force 16:9 ratio
-    overflow: hidden;
+    text-align: center;
 
     & img {
-      max-width: 100%;
-      height: auto;
-      position: absolute;
-      top: 50%;
-      left: 50%;
-      transform: translate(-50%, -50%);
+      max-width: 40rem;
+      margin-top: calc(#{$size-step-6} * -1);
     }
   }
 
@@ -63,19 +55,12 @@
     min-height: 60vh;
     align-content: center;
 
-    &--post &__content {
-      grid-row-gap: $size-step-1;
-    }
-
     &__content {
       padding-bottom: $size-step-6;
     }
 
     &__title--page {
-      grid-column: 1/3;
       max-width: 75%;
-      margin-top: calc(#{$size-step-6} * -1);
-      z-index: 30;
     }
   }
 }

diff --git a/src/assets/styles/partials/_header.scss b/src/assets/styles/partials/_header.scss
@@ -44,7 +44,7 @@
 
       & .langswitch {
         grid-row: 1;
-        grid-column: 3/5;
+        grid-column: 3/4;
         justify-self: right;
       }
     }
